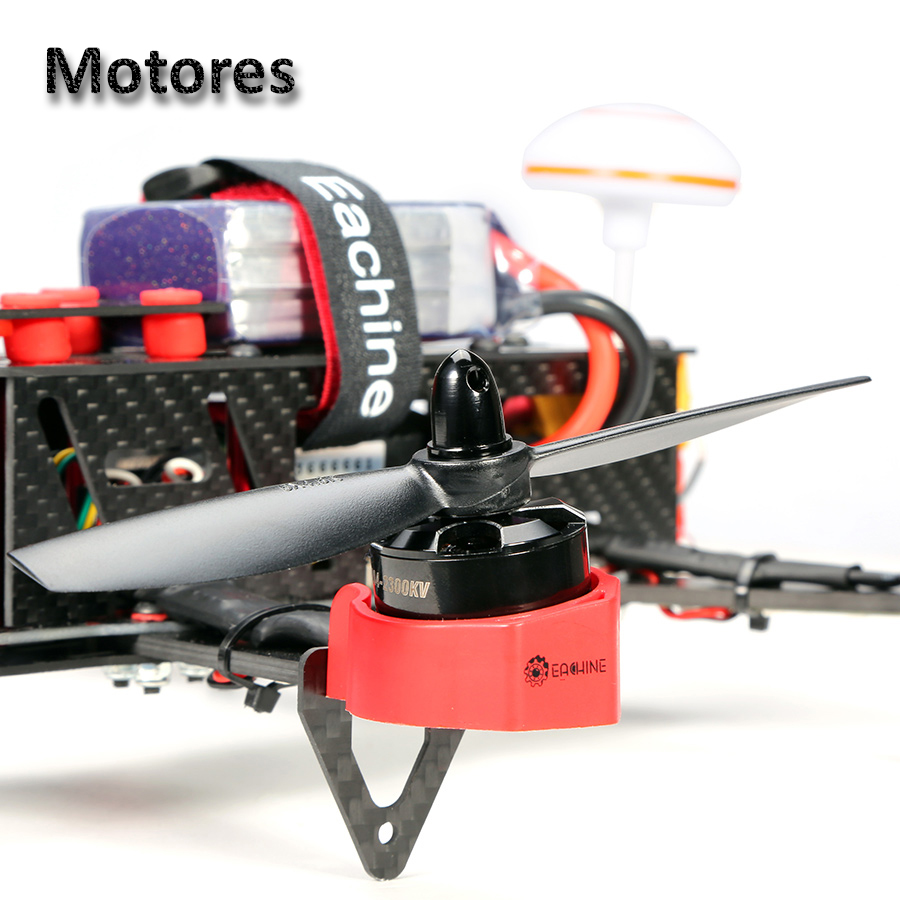
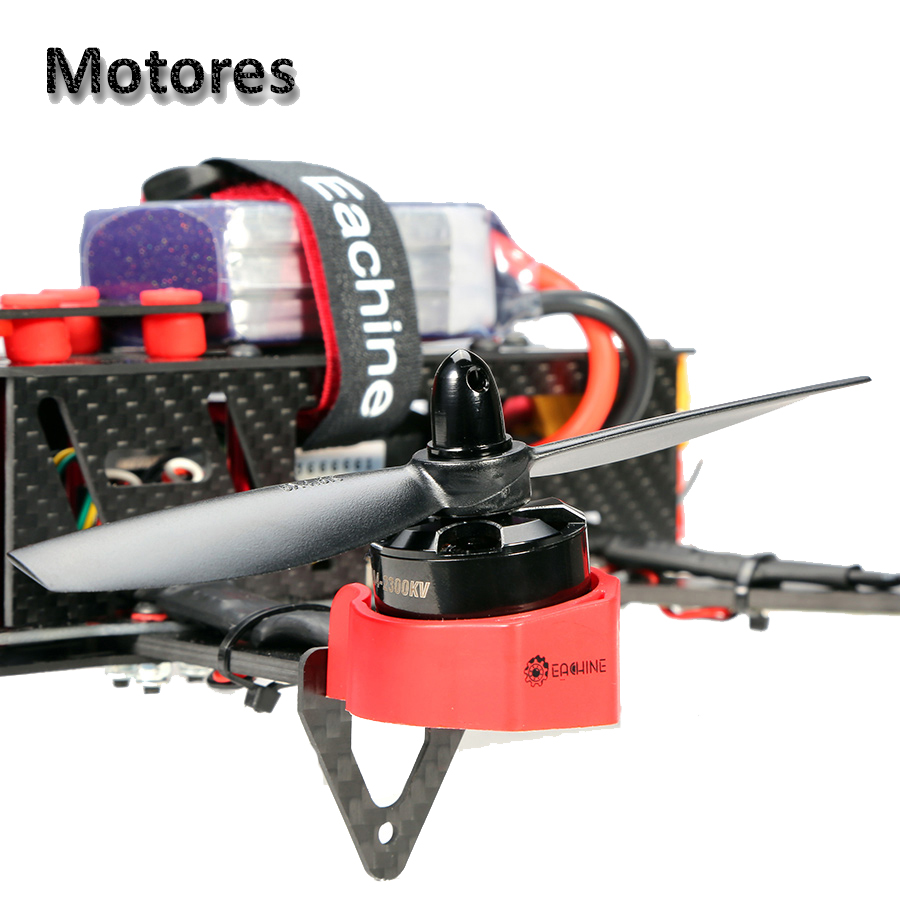
Organizado nome dos arquivos (45%), consertado fundo das fotos (20%), adicionado menu navbar, descricao nas imagens, modificacao no main css

diff --git a/HTML/Motor-choose-brand.html b/HTML/Motor-choose-brand.html
@@ -7,20 +7,29 @@
       <title>RotorParts Web (Motors)</title>
 </head>
 <body>
+      <ul>
+          <li><a href="MainPage.html"><img src="Media/download.png" width="40" height="35"></a></li>
+          <li><a href="parts-choose-brand.html">Partes</a></li>
+          <li><a href="Motor-choose-brand.html">Motores</a></li>
+          <li><a href="frame-choose-brand.html">Quads e Frames</a></li>
+          <li><a href="about.asp">Sobre</a></li>
+      </ul>
+      <br><br>
       <h1>Escolha uma marca:</h1>
       <p>&nbsp;</p>'
 	<!-- fotos com link de cada empresa-->
-      <center><a href="dji-prop-list.html"><img src="Media/DJI_Innovations_logo.svg.png" width="320" height="184"></a></center>
+      <center><a href="dji-prop-list.html"><img src="Media/DJI_logo.png" width="320" height="184" title="Motores DJI"></a></center>
       <br>
-      <center><a href="dys-prop-list.html"><img src="Media/dys.png"></a></center>
+      <center><a href="dys-prop-list.html"><img src="Media/dys_logo.png" title="Motores DYS"></a></center>
       <br>
-      <center><a href="schub-prop-list.html"><img src="Media/Logo-SCHUBKRAFT-Shop-600x315.png" width="300" height="157"></a></center>
+      <center><a href="schub-prop-list.html"><img src="Media/SCHUBKRAFT_logo.png" width="300" height="157" title="Motores SCHUBKRAFT"></a></center>
       <br>
-      <center><a href="rr-prop-list.html"><img src="Media/download.png" width="462"></a></center>
+      <center><a href="rr-prop-list.html"><img src="Media/RR_logo.png" width="462" title="Motores Rotor Riot"></a></center>
       <br>
-      <center><a href="t-motor-prop-list.html"><img src="Media/tmotor.png" width="386"></a></center>
+      <center><a href="t-motor-prop-list.html"><img src="Media/tmotor_logo.png" width="386" title="Motores T-motor"></a></center>
       <br>
       <h2>Ou:</h2>
 	  <center (retorno)><a href="MainPage.html">Voltar ao menu principal</a></center>
+      <div id="etc">&copy Allumny 2018</div>
 </body>
 </html>

diff --git a/HTML/frame-choose-brand.html b/HTML/frame-choose-brand.html
@@ -7,18 +7,27 @@
       <link href="StyleSheet/Main.css" rel="stylesheet" type="text/css">
 </head>
 <body>
+      <ul>
+          <li><a href="MainPage.html"><img src="Media/download.png" width="40" height="35"></a></li>
+          <li><a href="parts-choose-brand.html">Partes</a></li>
+          <li><a href="Motor-choose-brand.html">Motores</a></li>
+          <li><a href="frame-choose-brand.html">Quads e Frames</a></li>
+          <li><a href="about.asp">Sobre</a></li>
+      </ul>
+      <br><br>
       <h1>Escolha Uma Marca:</h1>
       <p>&nbsp;</p>
 	<!-- fotos com link de cada empresa-->
-      <center><a href="eachinef.html"><img src="Media/20161130033124_893.png"></a></center>
+      <center><a href="eachinef.html"><img src="Media/eachine_logo.png" title="Frames Eachine"></a></center>
       <br>
-      <center><a href="tbsf.html"><img src="Media/TBS_Logo_final.png" width="417" height="294"></a></center>
+      <center><a href="tbsf.html"><img src="Media/TBS_Logo.png" width="417" height="294" title="Frames TBS"></a></center>
       <br>
-      <center><a href="twf.html"><img src="Media/Tiny-whoop.png" width="210" height="205"></a></center>
+      <center><a href="twf.html"><img src="Media/Tiny-whoop_logo.png" width="210" height="205" title="Frames Tiny Whoop"></a></center>
       <br>
-	  <center><a href="rrf.html"><img src="Media/download.png" width="462"></a></center>
+	  <center><a href="rrf.html"><img src="Media/RR_logo.png" width="462" title="Frames RR"></a></center>
 	  <br>
       <h1>Ou:</h1>
-	  <center (retorno)><a href="MainPage.html">Voltar ao menu principal</a></center>
+	  <center (retorno)(temporário)><a href="MainPage.html">Voltar ao menu principal</a></center>
+      <div id="etc">&copy Allumny 2018</div>
 </body>
 </html>

diff --git a/HTML/MainPage.html b/HTML/MainPage.html
@@ -9,11 +9,20 @@
 <body>
       <center><img src="Media/head.png"></center>
       <br><br>
+      <ul>
+          <li><a href="MainPage.html"><img src="Media/download.png" width="40" height="35"></a></li>
+          <li><a href="parts-choose-brand.html">Partes</a></li>
+          <li><a href="Motor-choose-brand.html">Motores</a></li>
+          <li><a href="frame-choose-brand.html">Quads e Frames</a></li>
+          <li><a href="about.asp">Sobre</a></li>
+      </ul>
       <br><br>
       <center>
-              <a href="parts-choose-brand.html"><img src="Media/250-detail-home-edit.jpg" width="500" height="500" title="Partes" style="border: medium"></a>
-              <a href="Motor-choose-brand.html"><img src="Media/250-motor-home-edit.jpg" width="500" height="500" title="Motores" style="border: medium"></a>
-              <a href="frame-choose-brand.html"><img src="Media/250-front-home-edit.jpg" width="500" height="500" title="Quads/Frames" style="border: medium"></a>
-	  </center>
+              <a href="parts-choose-brand.html"><img src="Media/250-detail-home-edit.png" width="500" height="500" title="Partes" style="border: medium"></a>
+              <a href="Motor-choose-brand.html"><img src="Media/250-motor-home-edit.png" width="500" height="500" title="Motores" style="border: medium"></a>
+              <a href="frame-choose-brand.html"><img src="Media/250-front-home-edit.png" width="500" height="500" title="Quads/Frames" style="border: medium"></a>
+      </center>
+      <div id="etc">&copy Allumny 2018</div>
 </body>
 </html>
+

diff --git a/HTML/StyleSheet/Main.css b/HTML/StyleSheet/Main.css
@@ -8,7 +8,8 @@ h1 {
 	font-family: "Arial Black", Gadget, sans-serif;
 	color: black;
 	text-align: center;
-	font-size: 100px;
+	font-size: 75px;
+    opacity: 0.7;
 }
 h2 {
 	font-family: "Arial Black", Gadget, sans-serif;
@@ -18,12 +19,44 @@ h2 {
 }
 a {
 	font-family: "Arial Black", Gadget, sans-serif;
-	color: darkslategray;
-	font-size: 50px;
+	color: azure;
+	font-size: 30px;
 	text-decoration: none;
 }
 p {
-	font: calibri;
+	font-family: "Arial Black", Gadget, sans-serif;
 	color: darkslategray;
 	font-size: 25px;
+}
+#etc {
+    font-family: "Arial Black", Gadget, sans-serif;
+    color: dimgray;
+    text-decoration: overline;
+    text-decoration-style: double;
+    text-align: right;
+}
+ul {
+    list-style-type: none;
+    margin: 0;
+    padding: 0;
+    overflow: hidden;
+    background-color: #333;
+    opacity: 1;
+}
+
+li {
+    float: left;
+}
+
+li a {
+    display: block;
+    color: dimgray;
+    text-align: center;
+    padding: 14px 16px;
+    text-decoration: none;
+}
+
+/* Change the link color to #111 (black) on hover */
+li a:hover {
+    background-color: #111;
 }
